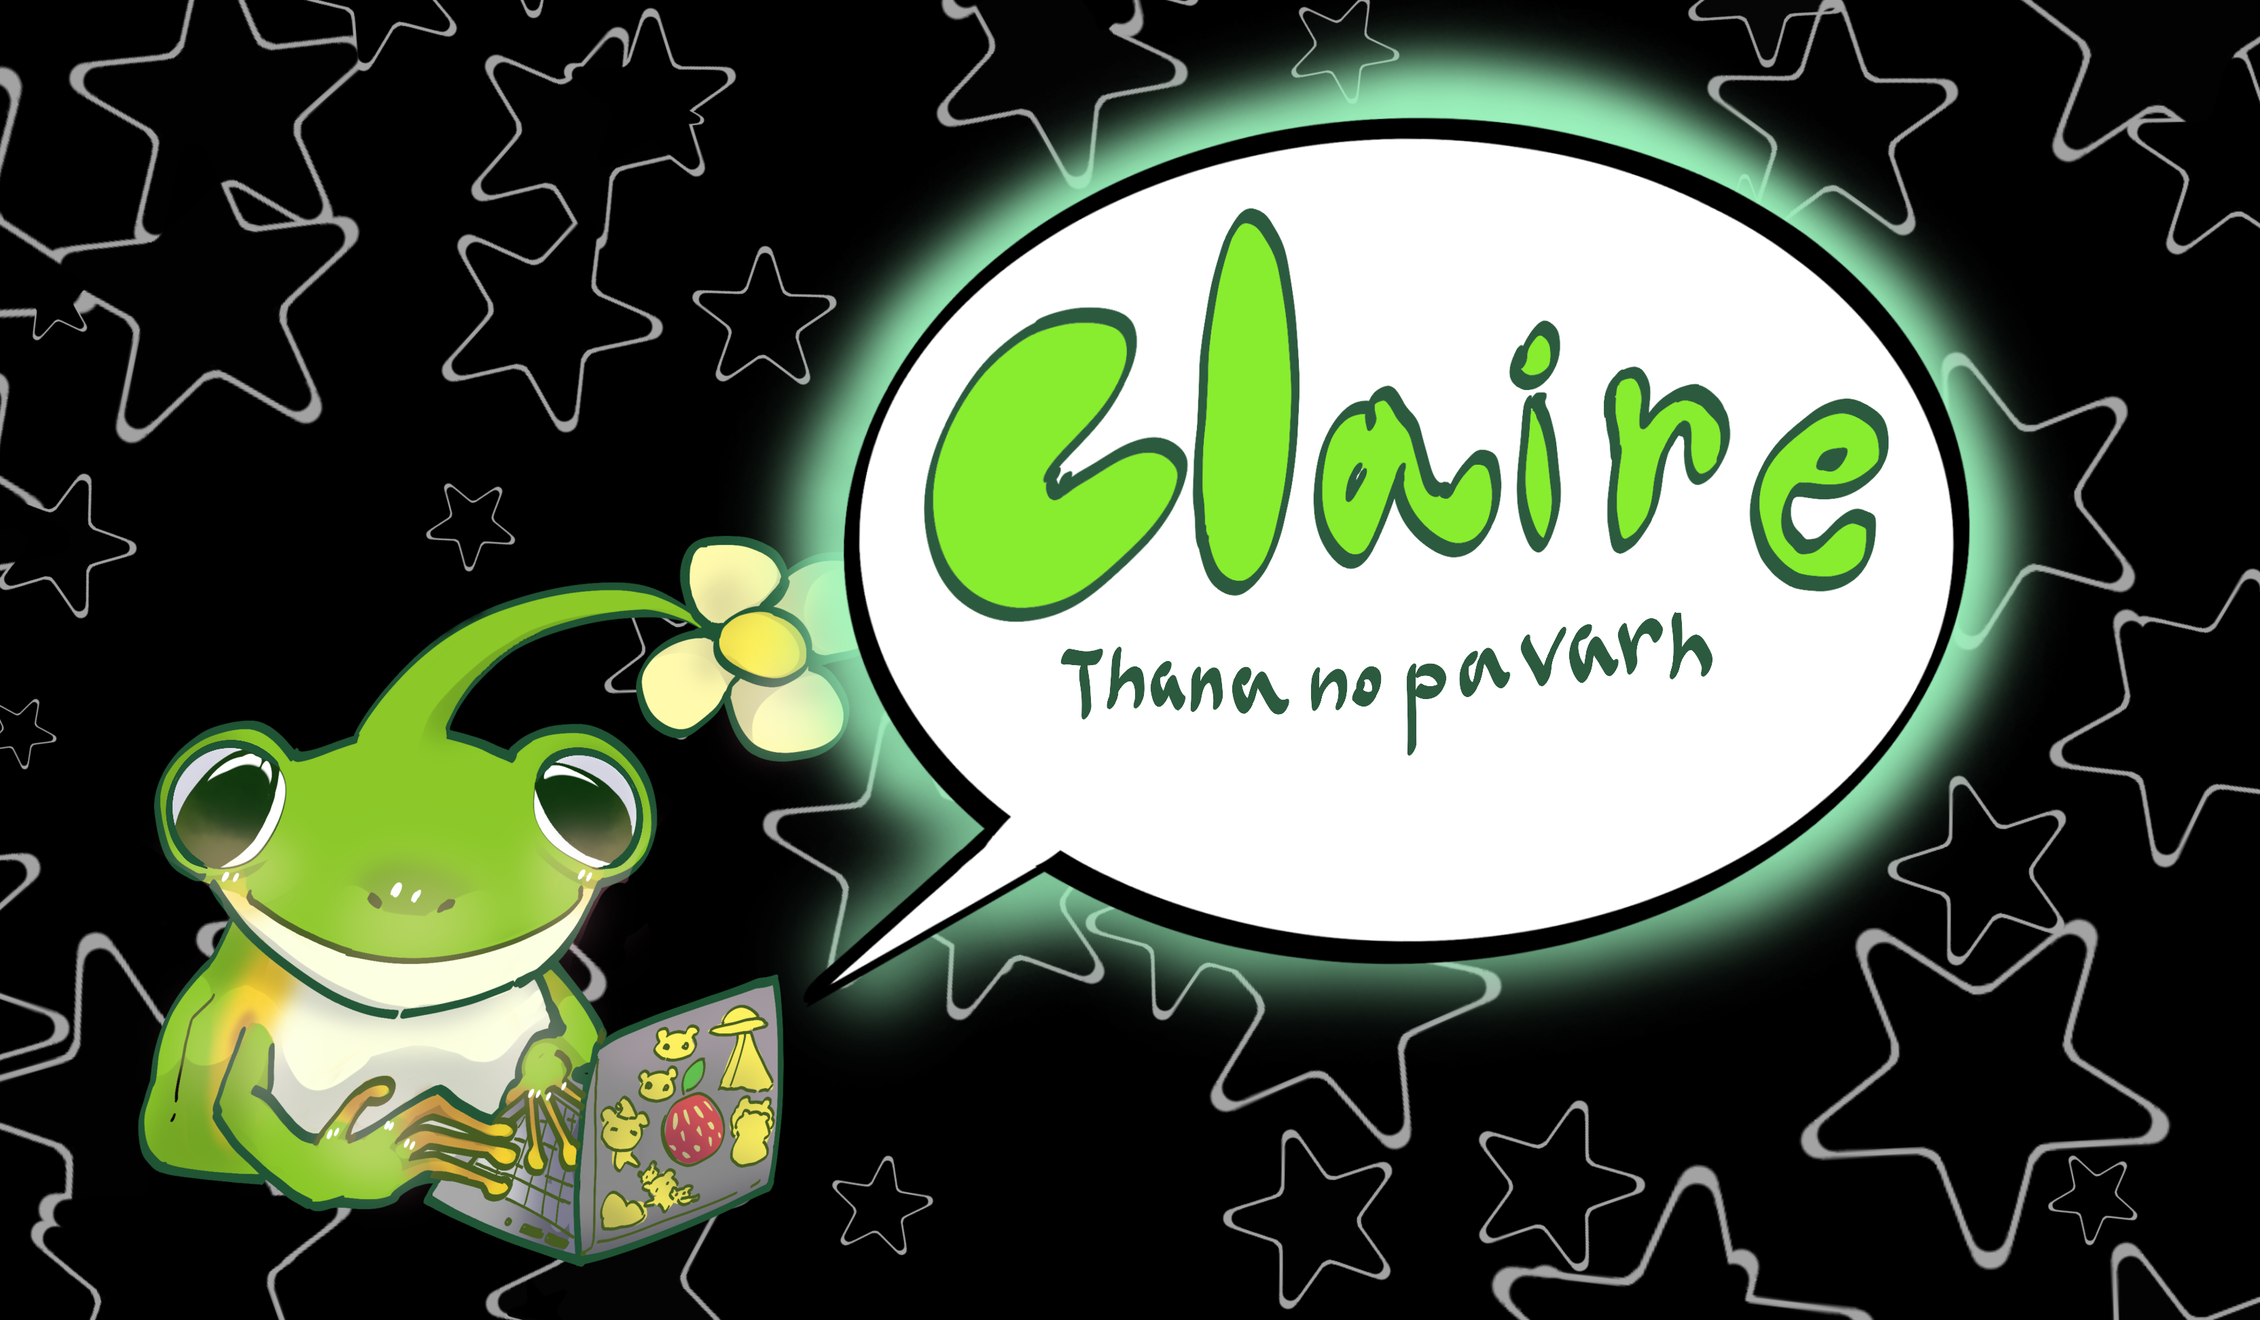
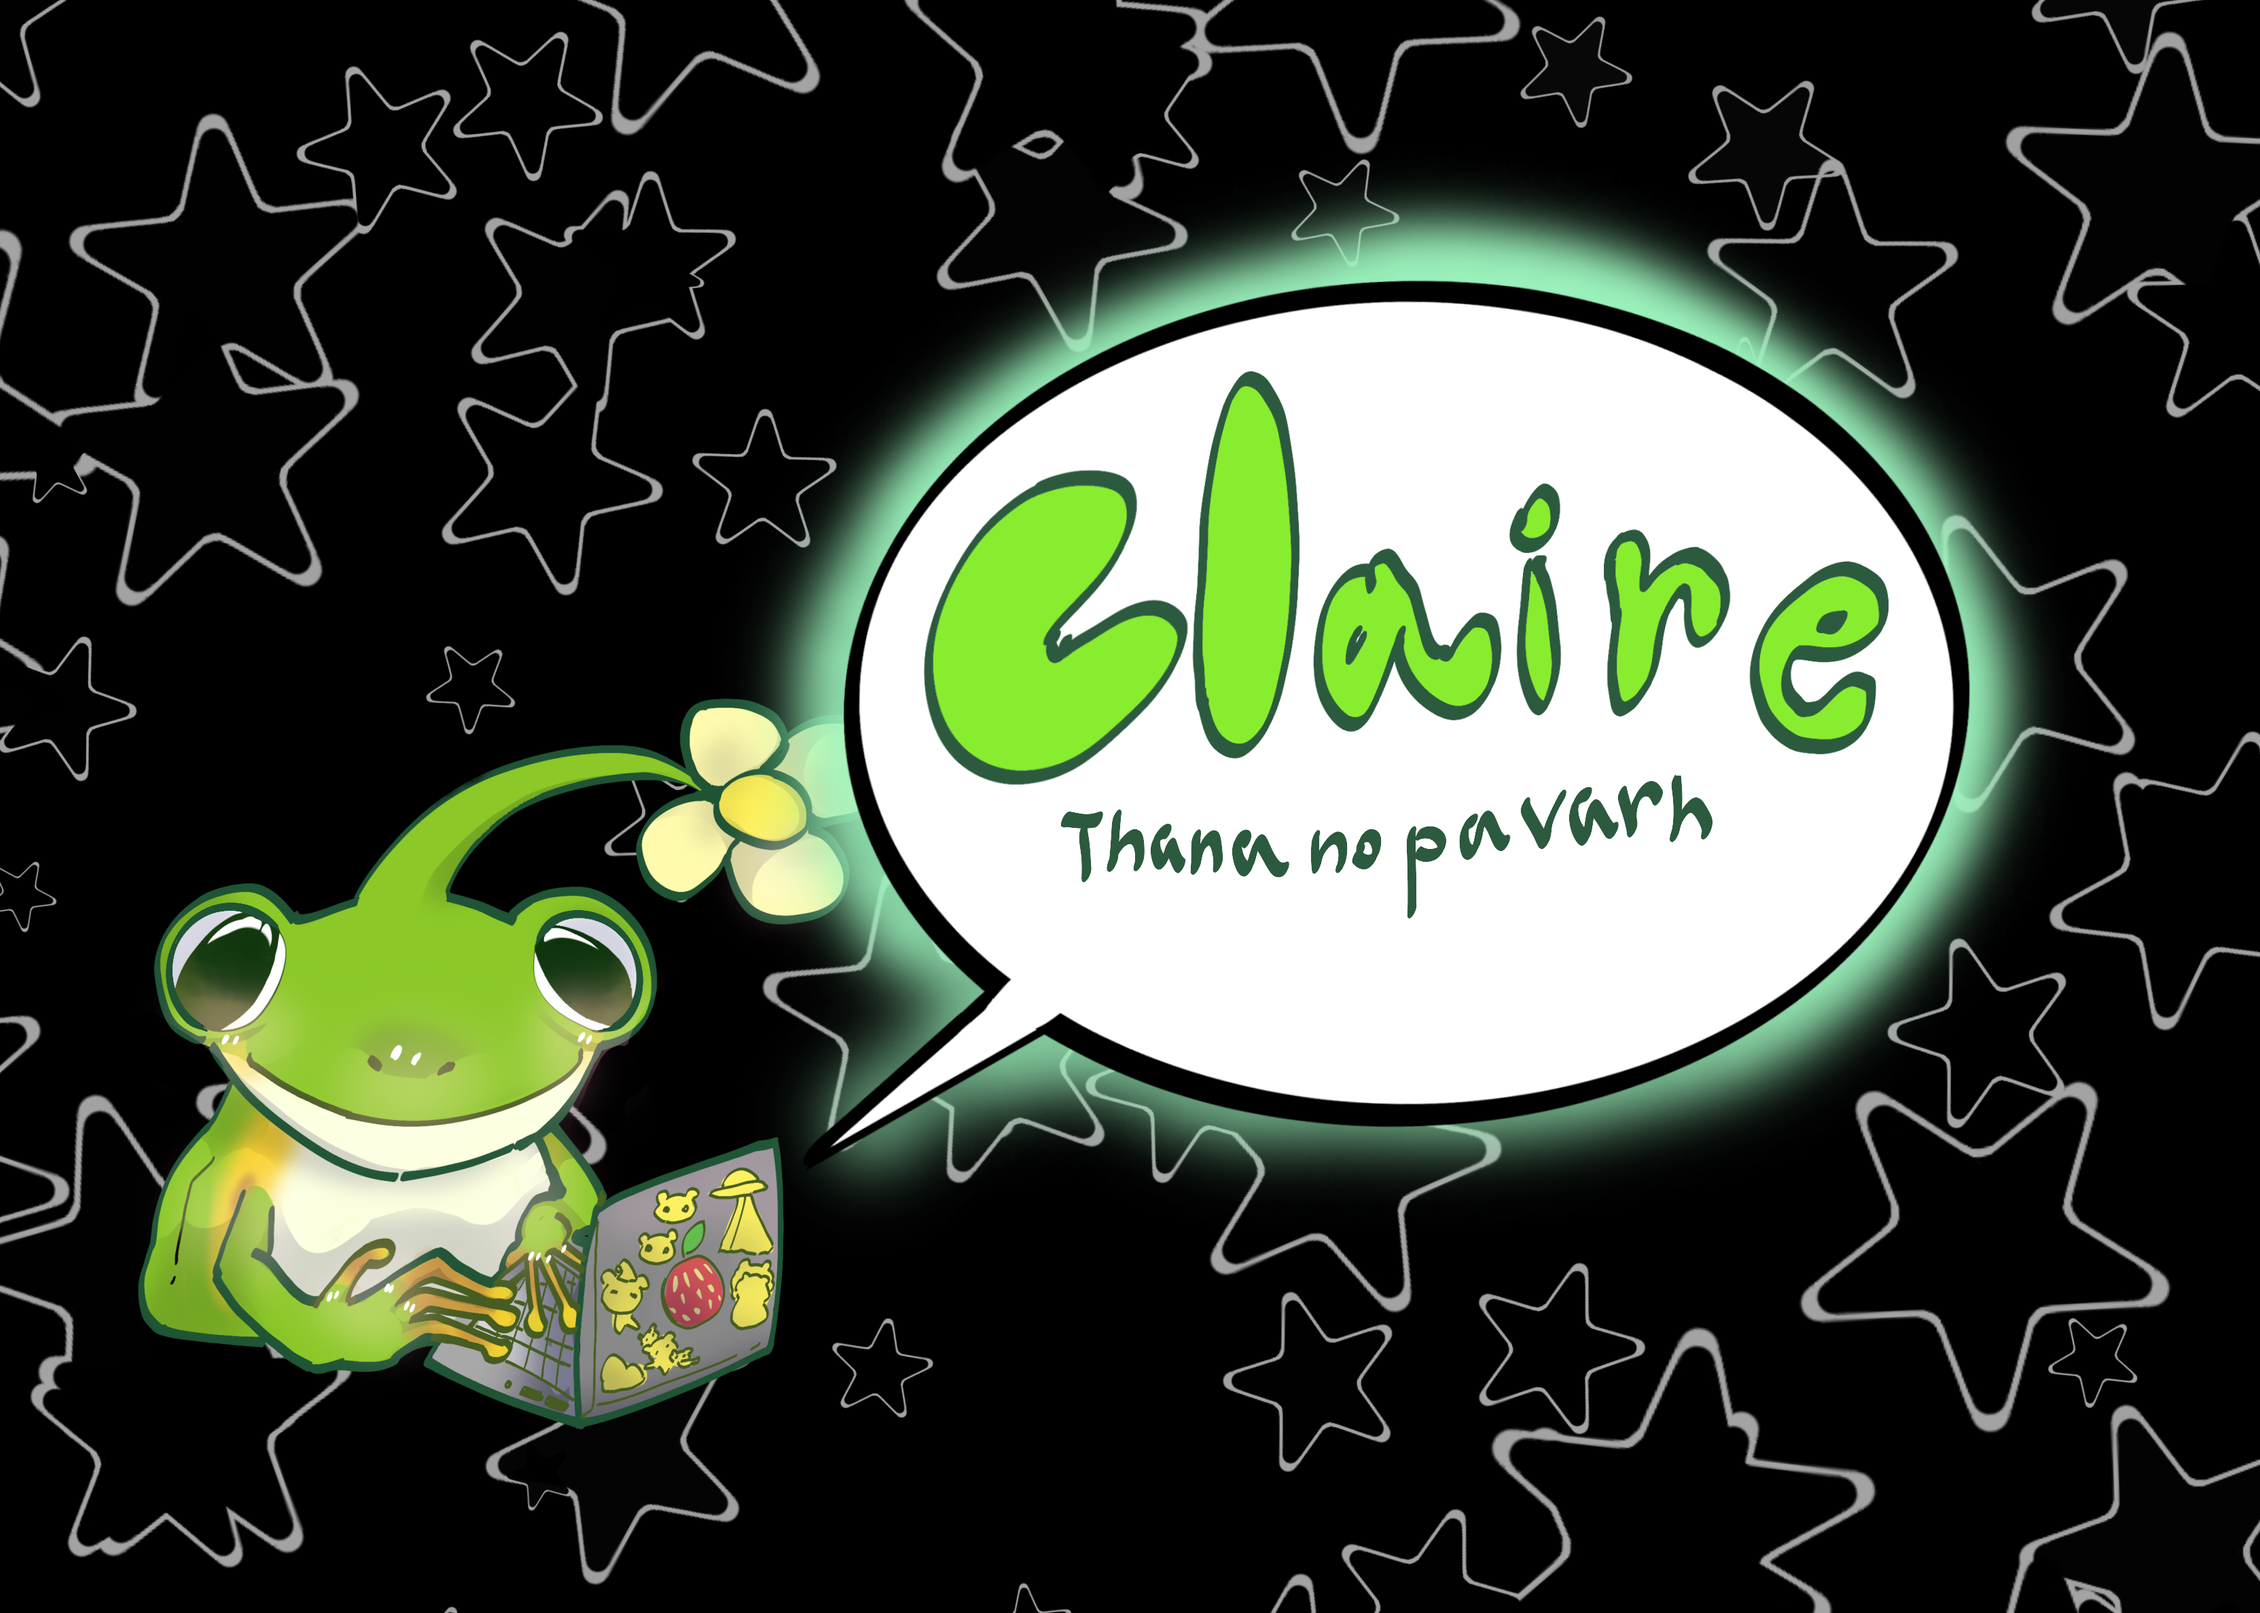
about css

diff --git a/about.html b/about.html
@@ -17,10 +17,10 @@
     }
     #images {
         display: flex;
-        width: calc(100% - 20px);
-        margin: 10px; 
+        width: 100%;
+        margin-bottom: 10px; 
         box-sizing: border-box;
-        height: 250px; 
+        height: 225px; 
         align-items: flex-start; 
         overflow: hidden;
     }
